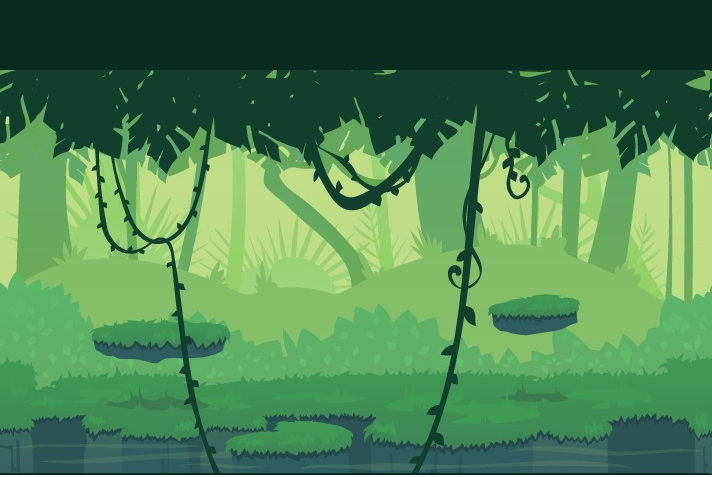
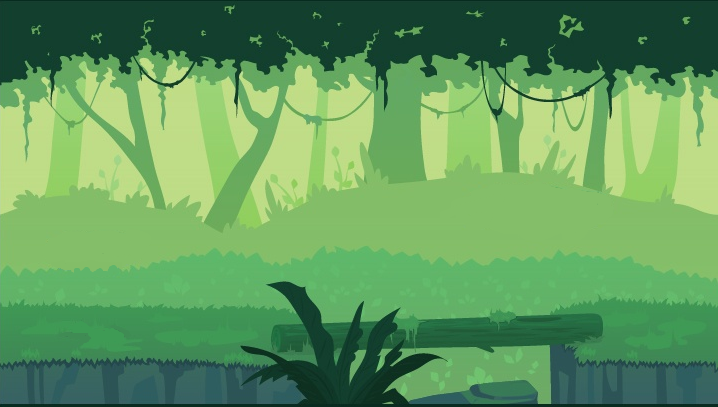
Moving Background

diff --git a/Drawing.java b/Drawing.java
@@ -1,23 +1,33 @@
 import java.awt.*;
 import javax.swing.JFrame;
 public class Drawing extends Canvas{
+    public static Dimension size = Toolkit.getDefaultToolkit().getScreenSize();
+    public static int width = (int)size.getWidth();
+    public static int height = (int)size.getHeight();
     public static void main (String[] args) {
         JFrame frame = new JFrame("Teemo Run");
         Canvas canvas = new Drawing();
-        Dimension size = Toolkit.getDefaultToolkit().getScreenSize();
-        int width = (int)size.getWidth();
-        int height = (int)size.getHeight();
+        
         canvas.setSize(width, height);
         frame.add(canvas);
         frame.pack();
         frame.setVisible(true);
-
-        
     }
 
     public void paint (Graphics g) {
-        Background b1 = new Background(200);
-        g.drawImage(b1.img, 0, 0, null);
-        
+        Background b1 = new Background(0);
+        while (true) {
+            if (b1.x < -width) {
+                b1.x = width*2;
+            }
+            g.drawImage(b1.img, b1.x, 0, width, height, null);
+            b1.x -= 1;
+            try {
+                Thread.sleep(1);
+            } catch (InterruptedException e) {
+                System.out.println("Thread generates an error.");
+            }
+            g.clearRect(0,0, width, height);
+        }
     }
 }

diff --git a/Background.java b/Background.java
@@ -14,11 +14,8 @@ public class Background extends Canvas{
         try{
             this.img = ImageIO.read(new File("Background.png"));
         }catch (IOException e) {
-            System.out.println ("Failed");
         }
     }
 
-    public void paint (Graphics g) {
     
-    }
 }
